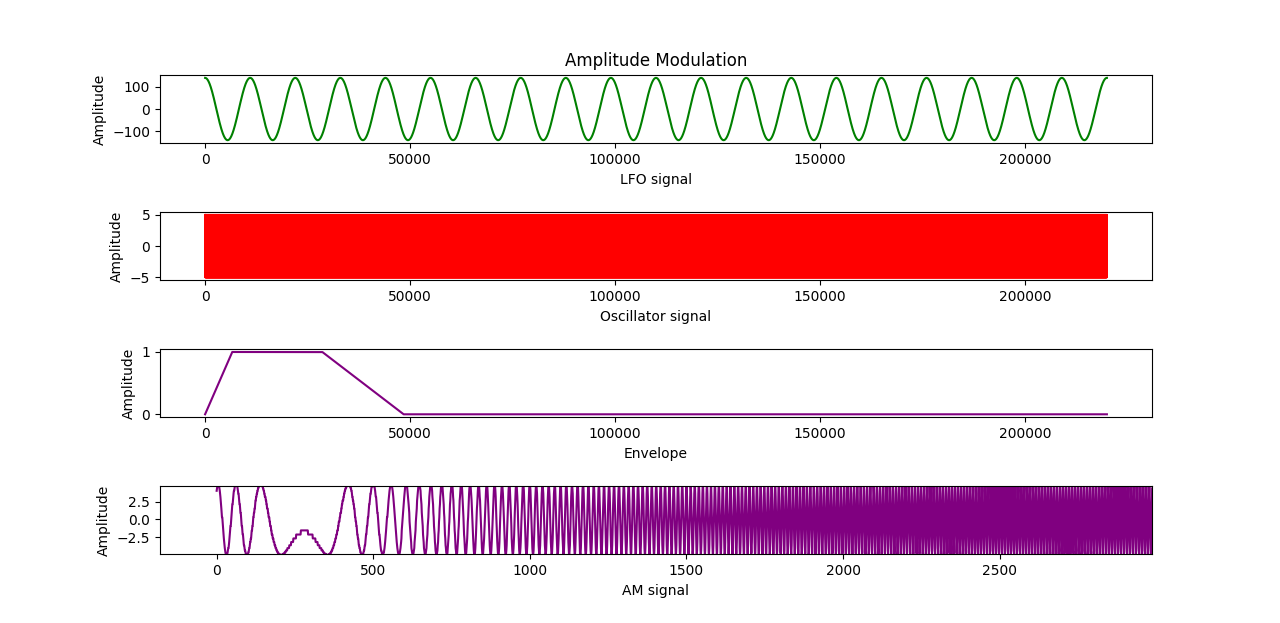
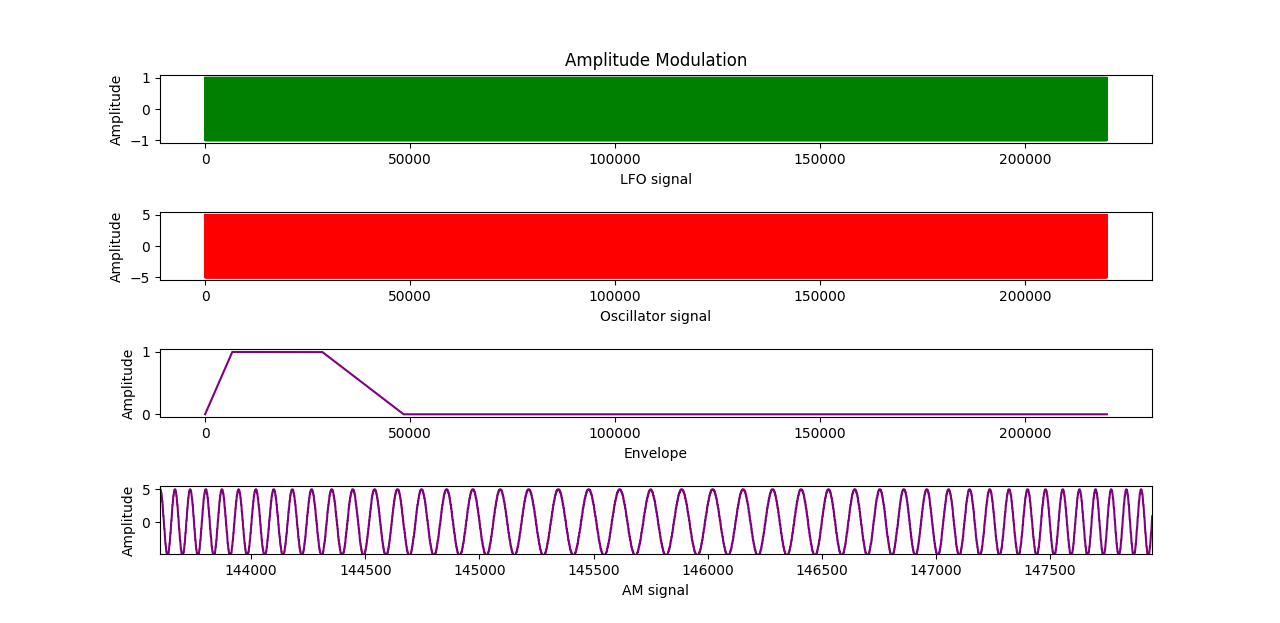
done pm lfo

Changed region(s): [[0.0625, 0.7624, 0.9062, 0.9454], [0.1562, 0.122, 0.875, 0.244], [0.0625, 0.122, 0.125, 0.244]]

diff --git a/main.py b/main.py
@@ -82,7 +82,7 @@ modulation_index = 140#float(input('Enter modulation index: '))
 sample_rate = 22000
 
 print('done')
-lfo = LFO(SineOscillator(f_m, A_m, sample_rate),140)
+lfo = LFO(SquareOscillator(f_m, A_m, sample_rate),modulation_index)
 oscillator = SineOscillator(f_c, A_c, sample_rate)
 carrier2 = SineOscillator(523.36,A_c,sample_rate)
 envelope = Envelope(0.3,0.2,0.8,0.9,1,sample_rate)
@@ -92,11 +92,13 @@ osc = []
 car2 = []
 lfo_1 = []
 env = []
+arr = []
 for t in range(0,10*sample_rate):
     osc.append(oscillator.get_next_value(t))
     car2.append(carrier2.get_next_value(t))
     lfo_1.append(lfo.get_next_value(t))
     env.append(envelope.get_next_value(t))
+    arr.append(np.cos(2*np.pi*f_c*t/(sample_rate)))
 
 print('done')
 
@@ -112,6 +114,7 @@ envelope2 = Envelope(0.3,0.2,0.8,0.9,1,sample_rate)
 product_am = []
 product_am2 = []
 product_fm = []
+
 t1 = time.time()
 for t in range(0,10*sample_rate):
     oscillator_next = oscillator.get_next_value(t)

diff --git a/Modulation/Modulation.py b/Modulation/Modulation.py
@@ -12,14 +12,14 @@ class Modulation:
 
     @staticmethod
     def pm_lfo_modulation(osc,mod_val,mod_index,time,sample_rate):
-        delta = mod_val
-        # if delta < 0:
-        #     pass
-        len_of_period = len(osc.period_values)
-        delta_samples = (int)(len_of_period * delta / 2*np.pi)
-        old_index = time % len_of_period
-        new_index = old_index + delta_samples
-        return osc.get_next_value(new_index)
+        # delta = mod_val
+        delta = int(sample_rate * mod_val / (2*np.pi*osc.frequency))
+        # len_of_period = len(osc.period_values)
+        # delta_samples = (int)(len_of_period * delta / 2*np.pi)
+        # old_index = time % len_of_period
+        # new_index = old_index + int(delta)
+        # return osc.get_next_value(time+delta)
+        return osc.get_next_value(time+delta)
         # t=time/sample_rate
         # return np.cos(2*np.pi*440*t+mod_val)
         # period_len = int(self.sample_rate/self.frequency)
